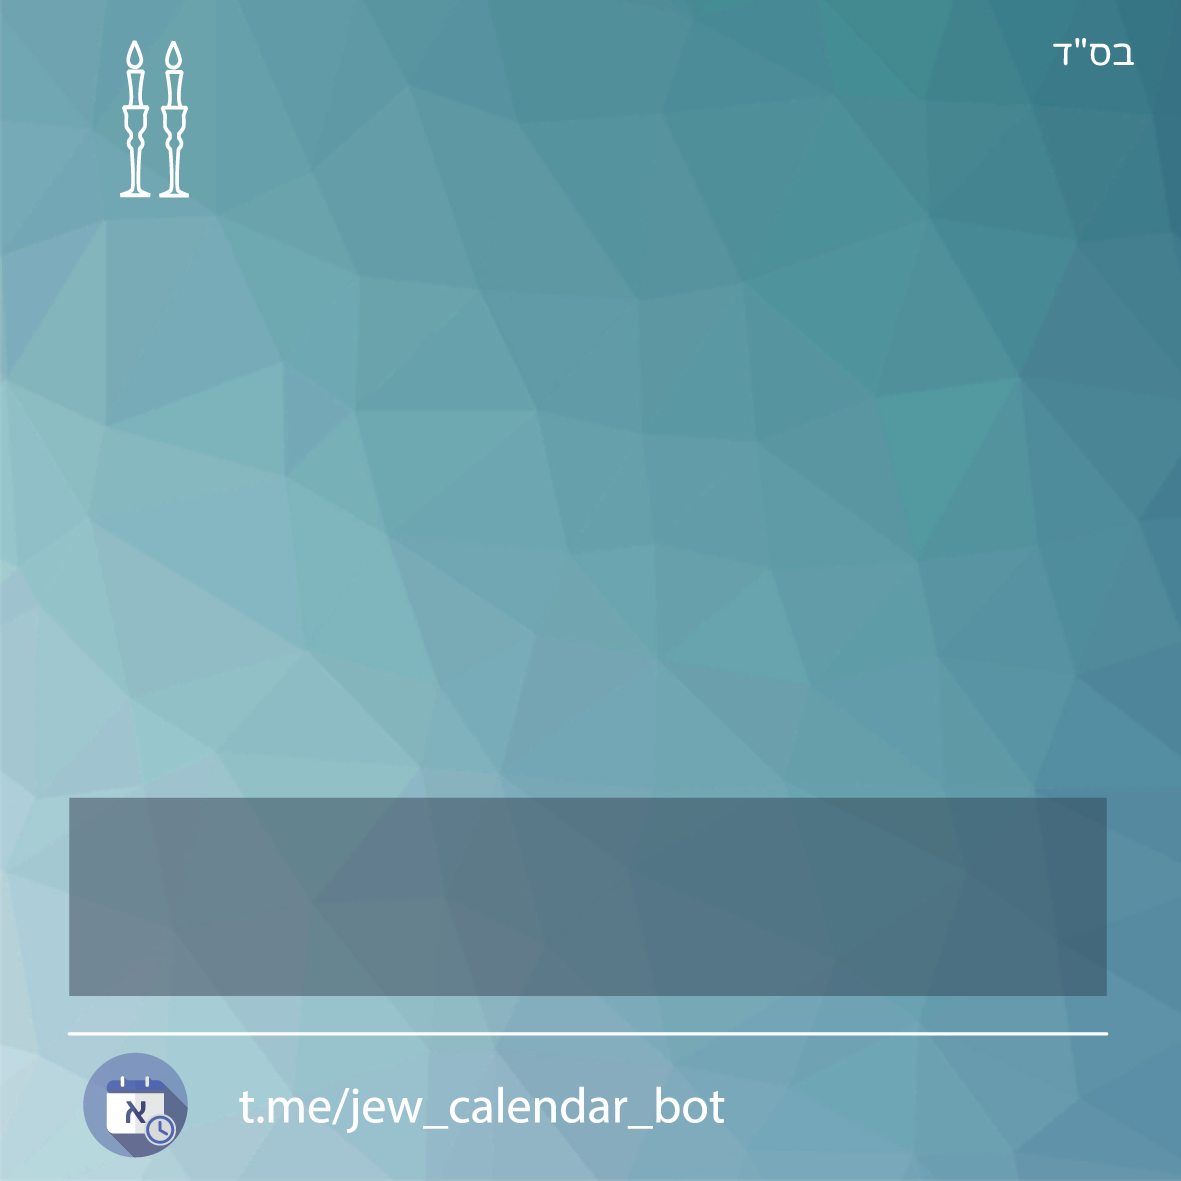
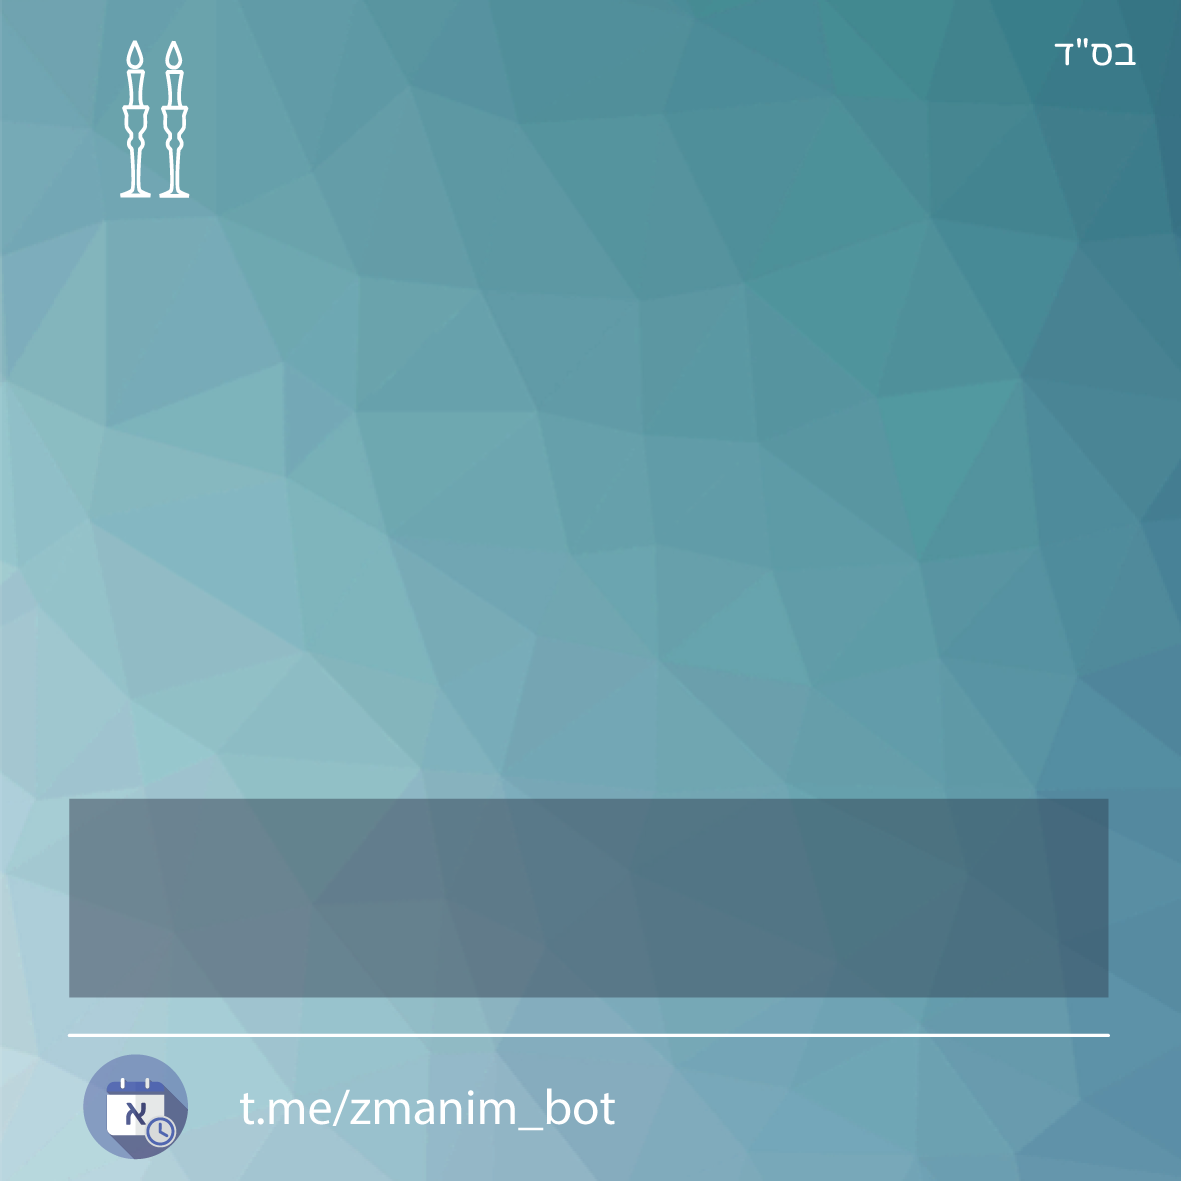
New background links; Fix chanukah bug; Started working with reports

diff --git a/zmanim_bot/processors/image/image_processor.py b/zmanim_bot/processors/image/image_processor.py
@@ -1,6 +1,6 @@
 from io import BytesIO
 from pathlib import Path
-from datetime import datetime as dt, date, time
+from datetime import datetime as dt, date, time, timedelta
 from typing import Union, Dict, List, Tuple, Optional
 
 from babel.support import LazyProxy
@@ -182,7 +182,7 @@ class DafYomImage(BaseImage):
 class RoshChodeshImage(BaseImage):
     def __init__(self, data: RoshChodesh):
         self.data = data
-        self._font_size = 46
+        self._font_size = 52
         self._background_path = Path(__file__).parent / 'res' / 'backgrounds' / 'rosh_hodesh.png'
 
         super().__init__()
@@ -204,6 +204,7 @@ class RoshChodeshImage(BaseImage):
 
         date_value = humanize_date([self.data.settings.date_])
         self._draw_line(x, y, headers.date, date_value)
+        y += y_offset
 
         # draw molad string
         molad = self.data.molad[0]
@@ -409,7 +410,17 @@ class HolidayImage(BaseImage):
         y = 450
 
         # TODO: add chanukah range days formatting
-        self._draw_line(x, y, headers.date, humanize_date([self.data.date, self.data.date]))
+        holiday_last_date = self.data.date
+        line_break = False
+        if self.data.settings.holiday_name == 'chanukah':
+            holiday_last_date += timedelta(days=7)
+            line_break = True
+
+        self._draw_line(
+            x,
+            y,
+            headers.date,
+            humanize_date([self.data.date, holiday_last_date], weekday_on_new_line=line_break))
         return _convert_img_to_bytes_io(self._image)
 
 
@@ -484,27 +495,20 @@ class YomTovImage(BaseImage):
             5: (57, 80, 300),
             6: (58, 70, 300),
             7: (58, 70, 300),
-            8: (58, 70, 300),
-            9: (58, 70, 300),
+            8: (50, 50, 230),
+            9: (50, 50, 230),
             10: (50, 50, 230)
         }
         font_size, y_offset, start_position_y = p.get(number_of_lines)
         return start_position_y, y_offset, font_size
 
     def get_image(self) -> BytesIO:
-        # todo case of date with post shabbat
         x = 80
 
         lines = self._prepare_lines()
         y, y_offset, font_size = self._get_font_properties(len(lines))
         self._font = ImageFont.truetype(str(self._font_path), size=font_size)
         self._bold_font = ImageFont.truetype(str(self._bold_font_path), size=font_size)
-
-        # # draw the date
-        # first_day = self.data.pre_shabbat or self.data.day_1
-        # last_day = self.data.
-        # header = headers.date
-        # value = humanize_date()
 
         for header, value, new_line in lines:
             if not header:

diff --git a/zmanim_bot/handlers/text/help.py b/zmanim_bot/handlers/text/help.py
@@ -1,5 +1,6 @@
 from aiogram.types import Message
 
+from zmanim_bot.keyboards import get_cancel_keyboard
 from zmanim_bot.misc import dp
 from zmanim_bot.states import FeedbackState
 from zmanim_bot.texts.single import buttons, messages
@@ -8,5 +9,5 @@ from zmanim_bot.texts.single import buttons, messages
 @dp.message_handler(text=buttons.hm_report)
 async def help_menu_report(msg: Message):
     await FeedbackState.waiting_for_feedback_text.set()
-    await msg.reply(messages.init_report)
+    await msg.reply(messages.init_report, reply_markup=get_cancel_keyboard())
 

diff --git a/zmanim_bot/handlers/forms.py b/zmanim_bot/handlers/forms.py
@@ -22,6 +22,8 @@ async def handle_report(msg: Message):
     resp = f'REPORT:\n\n<i>{report_message}</i>'
     await FeedbackState.next()
     await bot.send_message(msg.from_user.id, resp)
+    # TODO ad success report message
+    await redirect_to_main_menu()
 
 
 @dp.message_handler(state=ConverterGregorianDateState.waiting_for_gregorian_date)

diff --git a/zmanim_bot/zmanim_api/client.py b/zmanim_bot/zmanim_api/client.py
@@ -105,4 +105,3 @@ async def get_generic_holiday(name: str) -> models.Holiday:
     async with bot.session.get(url, params=params) as resp:
         raw_resp = await resp.json()
         return models.Holiday(**raw_resp)
-

diff --git a/zmanim_bot/reporrts_handler.py b/zmanim_bot/reporrts_handler.py
@@ -1,0 +1,2 @@
+def handle_report(report: str):
+    ...
